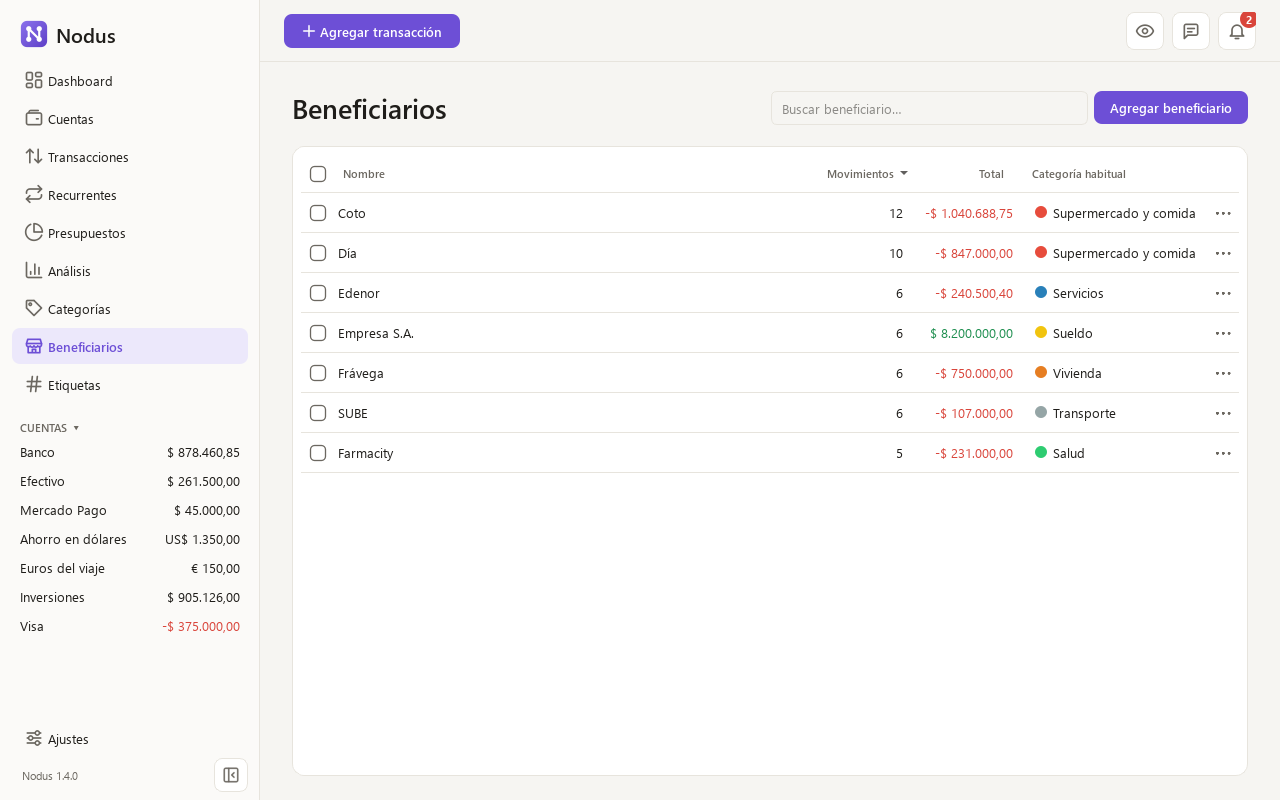
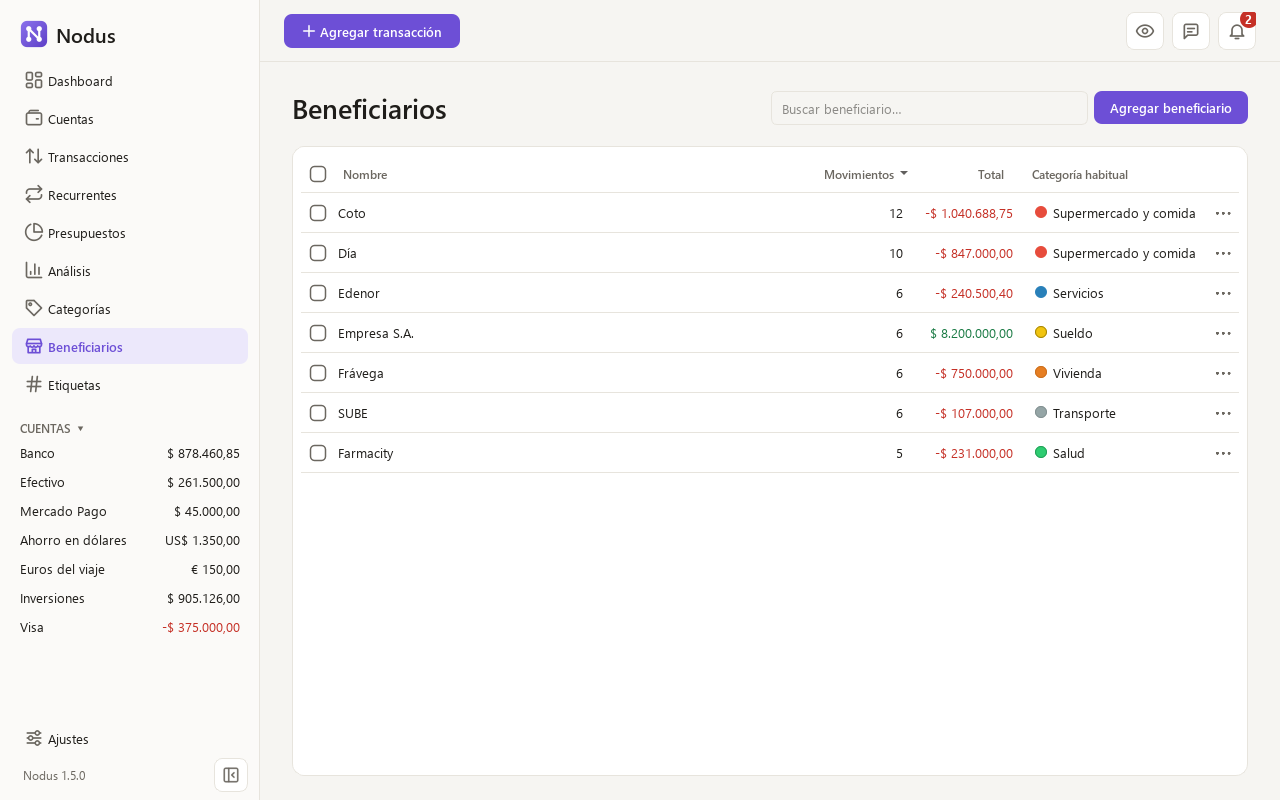
release: v1.5.0
Interface foundations: every text reads on its background in both
themes, the smallest role grows to 9 pt, one empty state across the
app and «Reducir animaciones» in Settings, plus smoother charts and
filters that fit a narrow window. Bumps the version, dates the
changelog, closes v1.5 in both roadmaps and renews the README's
screenshots.

diff --git a/src/nodus/__init__.py b/src/nodus/__init__.py
@@ -1,6 +1,6 @@
 """Nodus: local-first personal finance desktop application."""
 
-__version__ = "1.4.0"
+__version__ = "1.5.0"
 
 # How Windows tells Nodus apart from other programs on the taskbar. The running process
 # and the installer's shortcuts must carry the same one: a pinned window whose ID no

diff --git a/README.es.md b/README.es.md
@@ -130,10 +130,11 @@ Para actualizar, toca «Actualizar» cuando Nodus avise que hay una versión nue
 
 ## Hoja de ruta
 
-Nodus crece por versiones pequeñas y estables. La **v1.0**, la primera estable, incluye cuentas, transacciones, cotización del dólar, rendimiento de inversiones, dashboard, cargos recurrentes, presupuestos, beneficiarios, etiquetas, reembolsos, análisis, copias de seguridad y exportación. La **v1.1** sumó euros y pesos chilenos, billeteras virtuales, cuentas en el orden que quieras, cualquier color para categorías y etiquetas, abrir con Windows, enviar comentarios desde la aplicación y un resumen de las novedades después de cada actualización. La **v1.3** trajo actualizar con un clic, un menú en cada fila, selección de varias filas a la vez, una página para cada cuenta, beneficiario y etiqueta, y una interfaz más ordenada. La **v1.4** sumó compras en cuotas, cuánto de la variación del patrimonio se debe a la cotización, errores debajo del campo que los causa y sugerencias de beneficiario que ponen primero los que más usas. Lo que viene:
+Nodus crece por versiones pequeñas y estables. La **v1.0**, la primera estable, incluye cuentas, transacciones, cotización del dólar, rendimiento de inversiones, dashboard, cargos recurrentes, presupuestos, beneficiarios, etiquetas, reembolsos, análisis, copias de seguridad y exportación. La **v1.1** sumó euros y pesos chilenos, billeteras virtuales, cuentas en el orden que quieras, cualquier color para categorías y etiquetas, abrir con Windows, enviar comentarios desde la aplicación y un resumen de las novedades después de cada actualización. La **v1.3** trajo actualizar con un clic, un menú en cada fila, selección de varias filas a la vez, una página para cada cuenta, beneficiario y etiqueta, y una interfaz más ordenada. La **v1.4** sumó compras en cuotas, cuánto de la variación del patrimonio se debe a la cotización, errores debajo del campo que los causa y sugerencias de beneficiario que ponen primero los que más usas. La **v1.5** hizo la interfaz más cómoda de leer: todo texto se lee sobre su fondo en los dos temas, los rótulos más chicos crecieron, las listas vacías hablan todas igual y «Reducir animaciones» deja quietos los gráficos y las cifras. Lo que viene:
 
-- **v1.5 — Metas y grupos de cuentas:** ahorrar para algo concreto y agrupar bancos, inversiones y efectivo.
-- **v1.6 — Inversiones:** una sección propia para seguirlas.
+- **v1.6 — Metas y grupos de cuentas:** ahorrar para algo concreto, agrupar bancos, inversiones y efectivo, y un recordatorio a fin de mes para guardar una copia fuera de la computadora.
+- **v1.7 — Primeros pasos:** una lista de primeros pasos, un recorrido guiado y ayuda a una tecla de distancia.
+- **Más adelante — Inversiones:** una sección propia para seguirlas.
 
 ## Tecnología
 

diff --git a/README.md b/README.md
@@ -132,10 +132,11 @@ To update, click «Actualizar» when Nodus announces a new version: it downloads
 
 ## Roadmap
 
-Nodus grows in small, stable releases. **v1.0**, the first stable one, covers accounts, transactions, dollar exchange rates, investment returns, the dashboard, recurring charges, budgets, payees, tags, refunds, analysis, backups and export. **v1.1** added euros and Chilean pesos, virtual wallets, accounts in your own order, any color for categories and tags, opening with Windows, sending feedback from the app and a summary of what's new after each update. **v1.3** brought one-click updates, a menu on every row, choosing several rows at once, a page for each account, payee and tag, and a tidier interface. **v1.4** added purchases paid in installments, the share of net worth's change that comes from the exchange rate, errors shown under the field that causes them, and payee suggestions that put first the ones you use. Coming next:
+Nodus grows in small, stable releases. **v1.0**, the first stable one, covers accounts, transactions, dollar exchange rates, investment returns, the dashboard, recurring charges, budgets, payees, tags, refunds, analysis, backups and export. **v1.1** added euros and Chilean pesos, virtual wallets, accounts in your own order, any color for categories and tags, opening with Windows, sending feedback from the app and a summary of what's new after each update. **v1.3** brought one-click updates, a menu on every row, choosing several rows at once, a page for each account, payee and tag, and a tidier interface. **v1.4** added purchases paid in installments, the share of net worth's change that comes from the exchange rate, errors shown under the field that causes them, and payee suggestions that put first the ones you use. **v1.5** made the interface easier on the eyes: every text reads on its background in both themes, the smallest labels grew, empty lists all speak the same way, and «Reducir animaciones» stills charts and figures. Coming next:
 
-- **v1.5 — Goals and account groups:** saving for something specific, and grouping banks, investments and cash.
-- **v1.6 — Investments:** a section of its own to follow them.
+- **v1.6 — Goals and account groups:** saving for something specific, grouping banks, investments and cash, and a month-end reminder to keep a backup off your computer.
+- **v1.7 — Getting started:** a checklist of first steps, a guided tour and help one key away.
+- **Later — Investments:** a section of its own to follow them.
 
 ## Technology
 

diff --git a/CHANGELOG.md b/CHANGELOG.md
@@ -2,14 +2,14 @@
 
 Lo que trae cada versión, de la más nueva a la más vieja. Para actualizar, toca «Actualizar» cuando Nodus avise que hay una versión nueva: tus datos se conservan.
 
-## 1.5.0
+## 1.5.0 — 2026-11-10
 
+- Ajustes → General suma «Reducir animaciones»: los gráficos y las cifras cambian de una vez, sin moverse. Si Windows tiene las animaciones apagadas, Nodus arranca igual.
 - Todos los textos se leen bien sobre su fondo, en tema claro y oscuro: los verdes, rojos y amarillos de los montos y avisos son un poco más profundos, y el violeta del tema oscuro, un poco más claro. Los puntos de colores muy claros, como el amarillo, llevan un borde fino de su mismo tono para que se distingan.
 - Los rótulos más chicos (títulos de las tarjetas, «CUENTAS» en la barra lateral, encabezados de las tablas) son un poco más grandes y fáciles de leer.
 - Lo que no tiene nada para mostrar lo dice igual en toda la app: un mensaje centrado, con título en las páginas que todavía están vacías (Cuentas, Recurrentes, Presupuestos) y el botón del paso siguiente donde lo hay.
-- Ajustes → General suma «Reducir animaciones»: los gráficos y las cifras cambian de una vez, sin moverse. Si Windows tiene las animaciones apagadas, Nodus arranca igual.
-- Arreglo: en una ventana angosta, los filtros de Transacciones se achican hasta su rótulo y el buscador ya no tapa «Limpiar filtros». Al abrirse, cada lista desplegable toma el ancho de su nombre más largo, así ninguno se corta.
-- Arreglo: al pasar a un mes con el patrimonio quieto, la línea se aplana poco a poco hasta la recta; antes conservaba la forma del mes anterior y saltaba al final. Al cambiar entre pesos y dólares, la línea se queda en su lugar y solo cambian los valores del eje. Y al pasar a un mes sin gastos, el anillo se vacía de a poco en lugar de quedarse lleno y vaciarse de golpe.
+- Arreglo: en una ventana angosta, los filtros de Transacciones se achican hasta su rótulo y el buscador ya no tapa «Limpiar filtros». Al abrirse, cada lista desplegable toma el ancho de su nombre más largo.
+- Arreglo: el gráfico del patrimonio se mueve con fluidez. Al pasar a un mes sin cambios, la línea se aplana de a poco en lugar de saltar al final; al cambiar entre pesos y dólares, se queda en su lugar. Dos clics rápidos en el período ya no lo dejan trabado, y el anillo de gastos se vacía de a poco al pasar a un mes sin gastos.
 
 ## 1.4.0 — 2026-11-10
 
